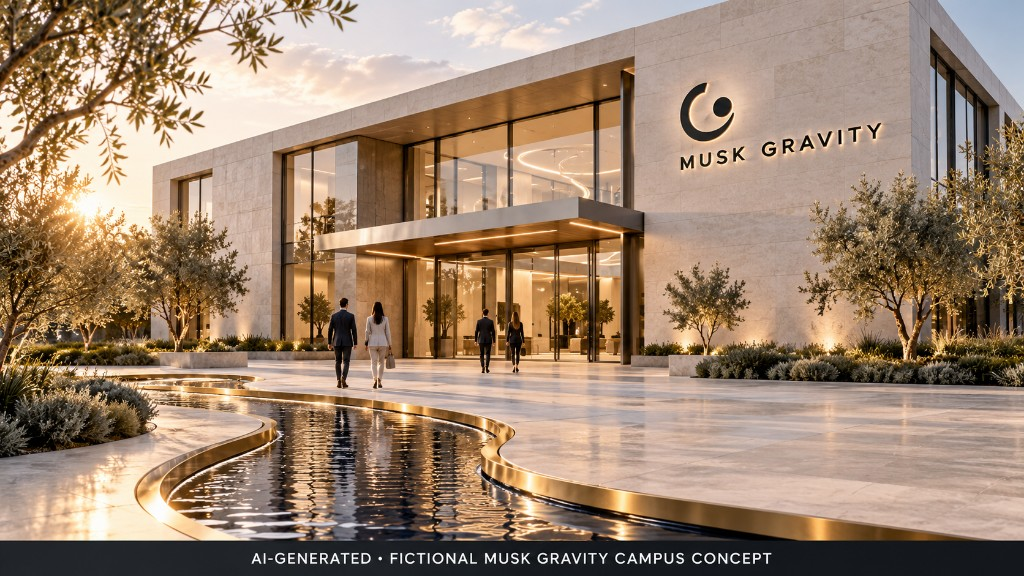
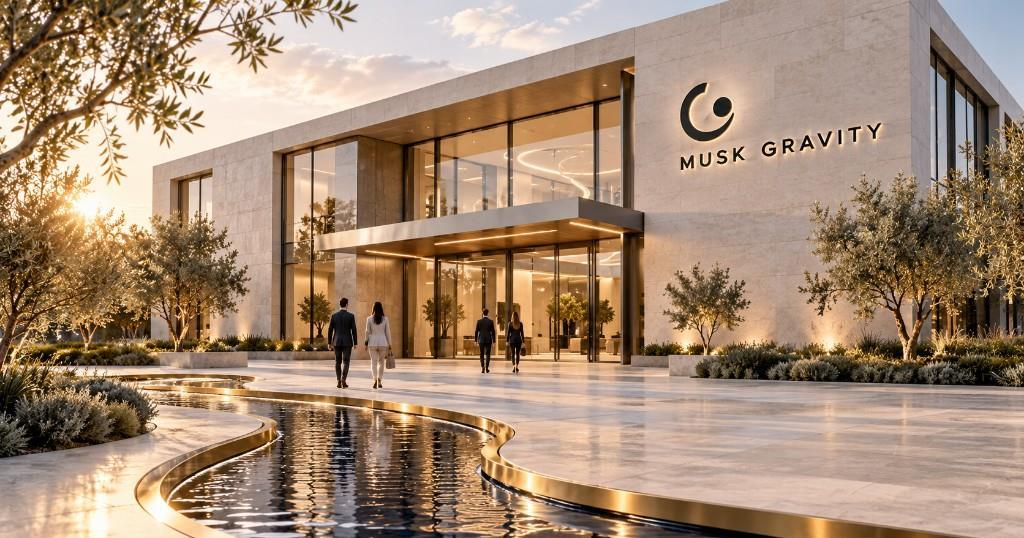
Close the gap above Explore and crop the photo captions.
Buttons stay flat until the pointer hovers or presses, when the raised face appears.

diff --git a/styles.css b/styles.css
@@ -158,24 +158,21 @@ button, a { -webkit-tap-highlight-color: transparent; }
   place-items: center;
   color: #f7f7f4;
   text-decoration: none;
+  background: #2c343a;
+  box-shadow: none;
+  transition: transform 0.08s ease, box-shadow 0.08s ease, background 0.08s ease;
+}
+
+.social-btn svg { width: 18px; height: 18px; display: block; }
+
+.social-btn:hover {
+  transform: translateY(-2px);
   background: linear-gradient(180deg, #4a545c 0%, #2c343a 46%, #1c2226 100%);
   box-shadow:
     inset 0 1px 0 rgba(255, 255, 255, 0.35),
     inset 0 -3px 0 rgba(0, 0, 0, 0.28),
     0 4px 0 #121618,
     0 8px 14px rgba(11, 14, 16, 0.2);
-  transition: transform 0.08s ease, box-shadow 0.08s ease;
-}
-
-.social-btn svg { width: 18px; height: 18px; display: block; }
-
-.social-btn:hover {
-  transform: translateY(1px);
-  box-shadow:
-    inset 0 1px 0 rgba(255, 255, 255, 0.3),
-    inset 0 -2px 0 rgba(0, 0, 0, 0.28),
-    0 3px 0 #121618,
-    0 6px 10px rgba(11, 14, 16, 0.18);
 }
 
 .social-btn:active {
@@ -193,13 +190,9 @@ button, a { -webkit-tap-highlight-color: transparent; }
 .nav-toggle {
   border: 0;
   border-radius: 10px;
-  background: linear-gradient(180deg, #ffffff 0%, #f4f4f1 52%, #e4e5e2 100%);
-  box-shadow:
-    inset 0 1px 0 #fff,
-    inset 0 -2px 0 rgba(11, 14, 16, 0.06),
-    0 3px 0 #c5c6c3,
-    0 6px 10px rgba(11, 14, 16, 0.08);
-  transition: transform 0.08s ease, box-shadow 0.08s ease;
+  background: transparent;
+  box-shadow: none;
+  transition: transform 0.08s ease, box-shadow 0.08s ease, background 0.08s ease;
 }
 
 .site-nav a,
@@ -218,17 +211,19 @@ button, a { -webkit-tap-highlight-color: transparent; }
 .site-nav a:hover,
 .site-nav .nav-link:hover,
 .nav-toggle:hover {
-  transform: translateY(1px);
+  transform: translateY(-2px);
+  background: linear-gradient(180deg, #ffffff 0%, #f4f4f1 52%, #e4e5e2 100%);
   box-shadow:
     inset 0 1px 0 #fff,
-    0 2px 0 #c5c6c3,
-    0 4px 8px rgba(11, 14, 16, 0.08);
+    inset 0 -2px 0 rgba(11, 14, 16, 0.06),
+    0 3px 0 #c5c6c3,
+    0 6px 10px rgba(11, 14, 16, 0.08);
 }
 
 .site-nav a:active,
 .site-nav .nav-link:active,
 .nav-toggle:active {
-  transform: translateY(3px);
+  transform: translateY(2px);
   box-shadow:
     inset 0 1px 0 rgba(255, 255, 255, 0.7),
     0 1px 0 #c5c6c3;
@@ -242,22 +237,19 @@ button, a { -webkit-tap-highlight-color: transparent; }
   color: #f7f7f4;
   font-size: 15px;
   font-weight: 650;
+  background: #2c343a;
+  box-shadow: none;
+  transition: transform 0.08s ease, box-shadow 0.08s ease, background 0.08s ease;
+}
+
+.btn-raise:hover {
+  transform: translateY(-2px);
   background: linear-gradient(180deg, #4a545c 0%, #2c343a 46%, #1c2226 100%);
   box-shadow:
     inset 0 1px 0 rgba(255, 255, 255, 0.35),
     inset 0 -3px 0 rgba(0, 0, 0, 0.28),
     0 4px 0 #121618,
     0 8px 14px rgba(11, 14, 16, 0.2);
-  transition: transform 0.08s ease, box-shadow 0.08s ease;
-}
-
-.btn-raise:hover {
-  transform: translateY(1px);
-  box-shadow:
-    inset 0 1px 0 rgba(255, 255, 255, 0.3),
-    inset 0 -2px 0 rgba(0, 0, 0, 0.28),
-    0 3px 0 #121618,
-    0 6px 10px rgba(11, 14, 16, 0.18);
 }
 
 .btn-raise:active {
@@ -274,8 +266,8 @@ button, a { -webkit-tap-highlight-color: transparent; }
   grid-template-columns: minmax(0, 1.12fr) minmax(280px, 0.88fr);
   column-gap: 12px;
   align-items: start;
-  min-height: 592px;
-  padding: 80px var(--inset) 68px;
+  min-height: 0;
+  padding: 48px var(--inset) 8px;
 }
 
 .hero-copy { min-width: 0; }
@@ -372,7 +364,7 @@ button, a { -webkit-tap-highlight-color: transparent; }
 .token-action {
   display: flex;
   justify-content: flex-start;
-  padding: 18px 0 16px;
+  padding: 8px 0 14px;
 }
 
 .token-grid {
@@ -473,25 +465,23 @@ button, a { -webkit-tap-highlight-color: transparent; }
   padding: 0;
   border: 0;
   border-radius: 10px;
-  background: linear-gradient(180deg, #4a545c 0%, #2c343a 46%, #1c2226 100%);
+  background: #2c343a;
   color: #f7f7f4;
   display: grid;
   place-items: center;
   cursor: pointer;
+  box-shadow: none;
+  transition: transform 0.08s ease, box-shadow 0.08s ease, color 0.15s ease, background 0.08s ease;
+}
+
+.copy:hover {
+  transform: translateY(-2px);
+  background: linear-gradient(180deg, #4a545c 0%, #2c343a 46%, #1c2226 100%);
   box-shadow:
     inset 0 1px 0 rgba(255, 255, 255, 0.35),
     inset 0 -2px 0 rgba(0, 0, 0, 0.28),
     0 3px 0 #121618,
     0 6px 10px rgba(11, 14, 16, 0.16);
-  transition: transform 0.08s ease, box-shadow 0.08s ease, color 0.15s ease;
-}
-
-.copy:hover {
-  transform: translateY(1px);
-  box-shadow:
-    inset 0 1px 0 rgba(255, 255, 255, 0.3),
-    0 2px 0 #121618,
-    0 4px 8px rgba(11, 14, 16, 0.14);
 }
 
 .copy:active {
@@ -613,20 +603,17 @@ button, a { -webkit-tap-highlight-color: transparent; }
   color: var(--ink);
   display: grid;
   place-items: center;
+  box-shadow: none;
+  transition: transform 0.08s ease, box-shadow 0.08s ease;
+}
+
+.poster:hover .poster-play {
+  transform: translate(-50%, calc(-50% - 2px));
   box-shadow:
     inset 0 1px 0 rgba(255, 255, 255, 0.9),
     inset 0 -3px 0 rgba(11, 14, 16, 0.12),
     0 4px 0 rgba(11, 14, 16, 0.28),
     0 10px 18px rgba(11, 14, 16, 0.22);
-  transition: transform 0.08s ease, box-shadow 0.08s ease;
-}
-
-.poster:hover .poster-play {
-  transform: translate(-50%, calc(-50% + 1px));
-  box-shadow:
-    inset 0 1px 0 rgba(255, 255, 255, 0.85),
-    0 3px 0 rgba(11, 14, 16, 0.28),
-    0 7px 14px rgba(11, 14, 16, 0.18);
 }
 
 .poster:active .poster-play {
@@ -680,26 +667,23 @@ button, a { -webkit-tap-highlight-color: transparent; }
   padding: 0 16px;
   border: 0;
   border-radius: 12px;
-  background: linear-gradient(180deg, #4a545c 0%, #2c343a 46%, #1c2226 100%);
+  background: #2c343a;
   color: #f7f7f4;
   font: inherit;
   font-size: 15px;
   cursor: pointer;
+  box-shadow: none;
+  transition: transform 0.08s ease, box-shadow 0.08s ease, background 0.08s ease;
+}
+
+.story-close:hover {
+  transform: translateY(-2px);
+  background: linear-gradient(180deg, #4a545c 0%, #2c343a 46%, #1c2226 100%);
   box-shadow:
     inset 0 1px 0 rgba(255, 255, 255, 0.35),
     inset 0 -3px 0 rgba(0, 0, 0, 0.28),
     0 4px 0 #121618,
     0 8px 14px rgba(11, 14, 16, 0.2);
-  transition: transform 0.08s ease, box-shadow 0.08s ease;
-}
-
-.story-close:hover {
-  transform: translateY(1px);
-  box-shadow:
-    inset 0 1px 0 rgba(255, 255, 255, 0.3),
-    inset 0 -2px 0 rgba(0, 0, 0, 0.28),
-    0 3px 0 #121618,
-    0 6px 10px rgba(11, 14, 16, 0.18);
 }
 
 .story-close:active {
@@ -863,21 +847,19 @@ button, a { -webkit-tap-highlight-color: transparent; }
   display: grid;
   place-items: center;
   cursor: pointer;
+  background: #2c343a;
+  box-shadow: none;
+  transition: transform 0.08s ease, box-shadow 0.08s ease, background 0.08s ease;
+}
+
+.film-close:hover {
+  transform: translateY(-2px);
   background: linear-gradient(180deg, #4a545c 0%, #2c343a 46%, #1c2226 100%);
   box-shadow:
     inset 0 1px 0 rgba(255, 255, 255, 0.35),
     inset 0 -2px 0 rgba(0, 0, 0, 0.28),
     0 3px 0 #121618,
     0 6px 12px rgba(0, 0, 0, 0.28);
-  transition: transform 0.08s ease, box-shadow 0.08s ease;
-}
-
-.film-close:hover {
-  transform: translateY(1px);
-  box-shadow:
-    inset 0 1px 0 rgba(255, 255, 255, 0.3),
-    0 2px 0 #121618,
-    0 4px 8px rgba(0, 0, 0, 0.24);
 }
 
 .film-close:active {
@@ -896,8 +878,8 @@ body.story-open { overflow: hidden; }
   .hero-grid {
     grid-template-columns: 1fr;
     min-height: 0;
-    padding-top: 48px;
-    padding-bottom: 40px;
+    padding-top: 36px;
+    padding-bottom: 12px;
   }
 
   .coin {
